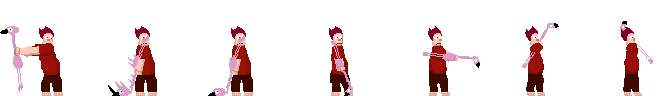
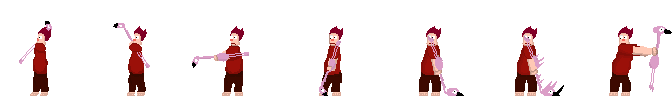
ゴルフのアニメーション追加

diff --git a/3DDirectX1/game/Enemy.cpp b/3DDirectX1/game/Enemy.cpp
@@ -18,6 +18,12 @@ void Enemy::Initialize()
 	pig = Sprite::CreateSprite(5, pigPos);
 	Sprite::LoadTexture(6, L"Resources/hedgehog/golf.png");
 	golf = Sprite::CreateSprite(6, GolfPos);
+	golf->SetAnchorPoint({ 0.5, 0.5 });
+	Sprite::LoadTexture(7, L"Resources/golf.png");
+	enGolf = Sprite::CreateSprite(7, position);
+	enGolf->SetTextureRect({ 0,0 }, { 96,96 });
+	enGolf->SetAnchorPoint({ 0.5,0.5 });
+	enGolf->SetSize({ 400, 400 });
 	Sprite::LoadTexture(10, L"Resources/card/JOKER.png");
 	Sprite::LoadTexture(11, L"Resources/card/heart.png");
 	Sprite::LoadTexture(12, L"Resources/card/dia.png");
@@ -132,12 +138,32 @@ void Enemy::Move()
 
 void Enemy::Golf()
 {
+	enGolfAnime += 1.5f;
 
+	if (enGolfAnime >= 8)
+	{
+		enGolfNo++;
+		enGolfAnime = 0;
+
+		if (enGolfNo == 5)
+		{
+			GolfFlag = true;
+			easeTimer = 0;
+		}
+
+		if (enGolfNo >= 6)
+		{
+			enGolfNo = 7;
+			enGolfAnime = 9;
+		}
+	}
+	
+	
+	/*
 	if (AttackNo == 2 && GolfFlag == false)
 	{
-		GolfFlag = true;
-		easeTimer = 0;
-	}
+		
+	}*/
 
 	if (GolfFlag)
 	{
@@ -163,15 +189,18 @@ void Enemy::Golf()
 			if (GolfPos.x >= 1300)
 			{
 				GolfFlag = false;
-				GolfPos = { 1000,200 };
+				isBackAnime = false;
+				GolfPos = { 1000,350 };
 				AttackNo = rand() % 4;
+				enGolfNo = 0;
+				enGolfAnime = 0;
 			}
 		}
 		else
 		{
 			isBackAnime = false;
 			easeTimer += 0.1f;
-			GolfPos = eas->easeOut_Bounce({ 1000,200 }, { 0,450 }, easeTimer);
+			GolfPos = eas->easeOut_Bounce({ 1000,450 }, { 0,560 }, easeTimer);
 		}
 	}
 	golf->SetSize({ 100,100 });
@@ -179,6 +208,9 @@ void Enemy::Golf()
 	backGolf->SetTextureRect({ 100 * backNo,0 }, { 100,64 });
 	backGolf->SetSize({ 200, 128 });
 	backGolf->SetPosition(GolfPos);
+
+	enGolf->SetTextureRect({ 96 * enGolfNo,0 }, { 96,96 });
+	enGolf->SetPosition(position);
 }
 
 void Enemy::Roll()
@@ -356,7 +388,7 @@ void Enemy::OnCollision()
 
 void Enemy::Draw()
 {
-	spEnemy->Draw();
+	//spEnemy->Draw();
 	if (AttackNo == 1 && randFlag) {
 		for (int i = 0; i < 6; i++)
 		{
@@ -373,7 +405,11 @@ void Enemy::Draw()
 		}
 		else
 		{
-			golf->Draw();
+			if (GolfFlag)
+			{
+				golf->Draw();
+			}
+			
 		}
 		
 	}
@@ -385,6 +421,5 @@ void Enemy::Draw()
 			spGrow_X->Draw();
 		}
 	}
-	
+	enGolf->Draw();
 }
-

diff --git a/3DDirectX1/scene/GameScene.cpp b/3DDirectX1/scene/GameScene.cpp
@@ -278,23 +278,34 @@ void GameScene::CreateParticles()
 
 void GameScene::CheckAllCollision()
 {
-	XMFLOAT2 posA, posB;
+	XMFLOAT2 posA_1, posA_2, posB;
 
 	//自弾リストの取得
 	const std::list<std::unique_ptr<PlayerBullet>>& playerBullets = player->GetBullets();
 
-	posA = enemy->GetPosition();
+	posA_1 = enemy->GetPosition();
+	posA_2 = enemy->GetPosition();
 
 	for (const std::unique_ptr<PlayerBullet>& bullet : playerBullets)
 	{
 		posB = bullet->GetPlayerBulletPos();
 
-		float enemy2BulletX = (posA.x + 255) - posB.x;
-		float enemy2BulletY = (posA.y + 32) - posB.y;
+		float enemyBulletX = (posA_1.x + 180) - posB.x;
+		float enemyBulletY = (posA_1.y) - posB.y;
+		float enemyBullet = sqrtf(pow(enemyBulletX, 2) + pow(enemyBulletY, 2));
+		if (enemyBullet <= 260 + 8)
+		{
+			enemy->OnCollision();
+			bullet->OnCollision();
+			DebugText::GetInstance()->Printf(100, 380, 3.0f, "Hit");
+		}
+
+		float enemy2BulletX = (posA_2.x + 180) - posB.x;
+		float enemy2BulletY = (posA_2.y + 180) - posB.y;
 		float enemy2Bullet = sqrtf(pow(enemy2BulletX, 2) + pow(enemy2BulletY, 2));
 		//DebugText::GetInstance()->Printf(100, 300, 3.0f, "%f : 263", enemy2Bullet);
 		//DebugText::GetInstance()->Printf(100, 340, 2.5f, "en : %f %f pb : %f %f", posA.x, posA.y, posB.x, posB.y);
-		if (enemy2Bullet <= 255 + 8)
+		if (enemy2Bullet <= 260 + 8)
 		{
 			enemy->OnCollision();
 			bullet->OnCollision();
